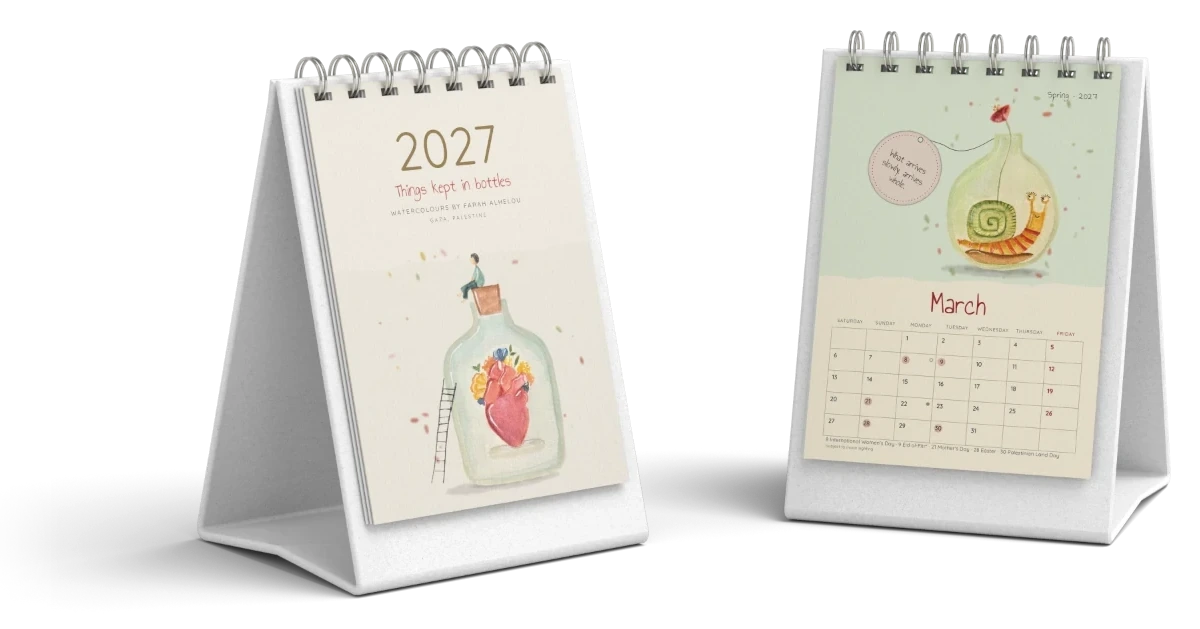
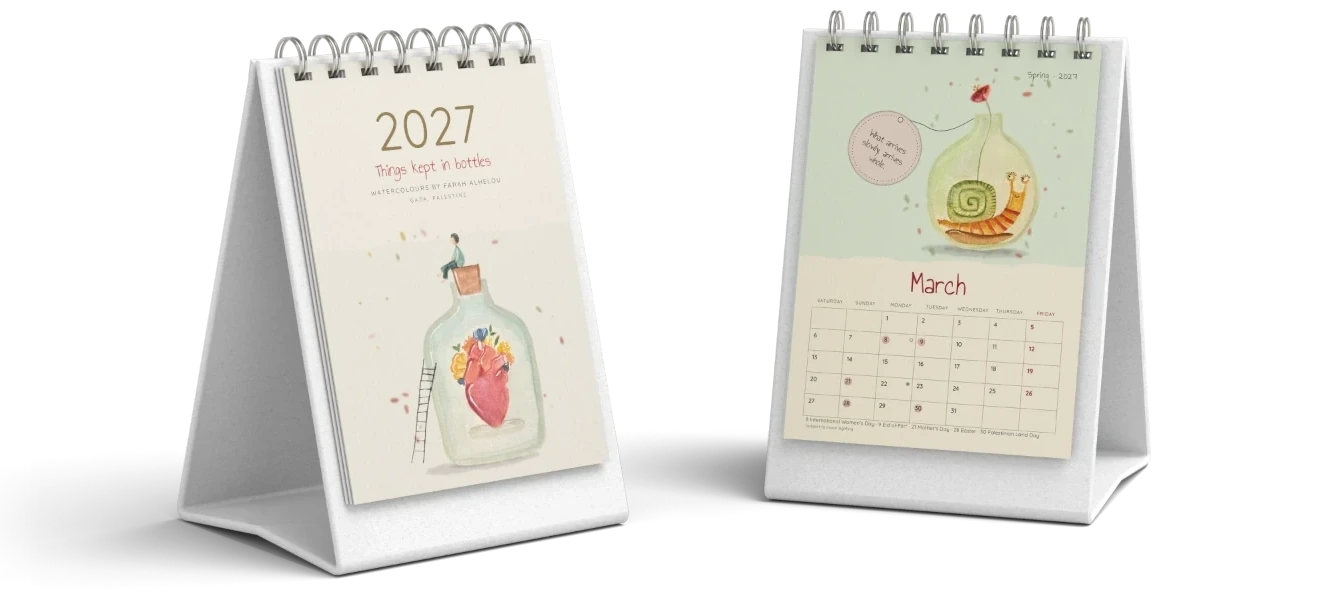
Calendar page: mockups centred on the calendars themselves (shadow spills aside), sized to the screen
Claude-Session: https://claude.ai/code/session_011WuUMkvb8t9MEEabS5wD9n

diff --git a/web/calendar.html b/web/calendar.html
@@ -19,10 +19,10 @@
 <link rel="preload" href="fonts/geist-mono-latin-500-normal.woff2" as="font" type="font/woff2" crossorigin>
 <link rel="stylesheet" href="fonts/all.css">
 <link rel="stylesheet" href="fonts/figtree.css">
-<link rel="stylesheet" href="assets/css/site.css?v=93d87108">
-<link rel="stylesheet" href="assets/css/hand.css?v=93d87108">
-<link rel="stylesheet" href="assets/css/calendar.css?v=93d87108">
-<script src="assets/js/boot.js?v=93d87108"></script>
+<link rel="stylesheet" href="assets/css/site.css?v=272b97c8">
+<link rel="stylesheet" href="assets/css/hand.css?v=272b97c8">
+<link rel="stylesheet" href="assets/css/calendar.css?v=272b97c8">
+<script src="assets/js/boot.js?v=272b97c8"></script>
 </head>
 <body>
 <a class="skip" href="#main" data-ar="انتقلوا إلى المحتوى">Skip to content</a>
@@ -64,7 +64,7 @@
 <main id="main">
 <section class="hshow cdesk" id="top" aria-labelledby="cf-h">
   <h1 class="sr" id="cf-h" data-ar="تقويم 2027: أشياء نحفظها في قوارير">The 2027 calendar: things kept in bottles</h1>
-  <img src="assets/cal-hero.webp" srcset="assets/cal-hero-m.webp 1100w, assets/cal-hero.webp 1200w" sizes="100vw" width="1200" height="629" alt="Two 2027 desk calendars standing side by side, open on the cover and on March" data-alt-ar="تقويمان مكتبيان لعام 2027 جنبًا إلى جنب، مفتوحان على الغلاف وعلى آذار" fetchpriority="high">
+  <img src="assets/cal-hero.webp" srcset="assets/cal-hero-m.webp 1100w, assets/cal-hero.webp 1326w" sizes="100vw" width="1326" height="589" alt="Two 2027 desk calendars standing side by side, open on the cover and on March" data-alt-ar="تقويمان مكتبيان لعام 2027 جنبًا إلى جنب، مفتوحان على الغلاف وعلى آذار" fetchpriority="high">
   <div class="cdesk-t">
     <p class="cdesk-l" data-ar="قارورة لكل شهر، على مكتبكم طوال العام">A bottle for every month, on your desk all year</p>
     <div class="cbuy-row">
@@ -79,7 +79,7 @@
     <div class="btl-hd"><h2 class="big" id="bt-h" data-ar="ما في القوارير">What the bottles keep</h2><p data-ar="اختاروا قارورة لتروها في التقويم.">Choose a bottle to see it in the calendar.</p></div>
     <ul class="btrow" id="btrow"></ul>
     <div class="btshow" id="btshow" aria-live="polite">
-      <div class="bts-im" id="btsim"><img class="bts-base" src="assets/cdm-base.webp" alt="" width="1104" height="969"><div class="bts-pg" id="btspg"></div><img id="btsA" alt="" width="960" height="1350"><img id="btsB" alt="" width="960" height="1350"></div>
+      <div class="bts-im" id="btsim"><img class="bts-base" src="assets/cdm-base.webp" alt="" width="1396" height="955"><div class="bts-pg" id="btspg"></div><img id="btsA" alt="" width="960" height="1350"><img id="btsB" alt="" width="960" height="1350"></div>
       <div class="bts-tx">
         <p class="bts-s" id="btss"></p>
         <h3 class="bts-n" id="btsn"></h3>
@@ -147,10 +147,10 @@
   <div class="ft-z"><small data-ar="© 2026 ماس آند غراس، غزة، فلسطين">© 2026 Mass &amp; Grass, Gaza, Palestine</small><div class="soc" id="soc"></div></div>
 </footer>
 
-<script src="assets/js/catalog.js?v=93d87108" defer></script>
-<script src="assets/js/art.js?v=93d87108" defer></script>
-<script src="assets/js/core.js?v=93d87108" defer></script>
-<script src="assets/js/mock.js?v=93d87108" defer></script>
-<script src="assets/js/calendar.js?v=93d87108" defer></script>
+<script src="assets/js/catalog.js?v=272b97c8" defer></script>
+<script src="assets/js/art.js?v=272b97c8" defer></script>
+<script src="assets/js/core.js?v=272b97c8" defer></script>
+<script src="assets/js/mock.js?v=272b97c8" defer></script>
+<script src="assets/js/calendar.js?v=272b97c8" defer></script>
 </body>
 </html>

diff --git a/web/_src/pages/calendar.html b/web/_src/pages/calendar.html
@@ -2,7 +2,7 @@
 <main id="main">
 <section class="hshow cdesk" id="top" aria-labelledby="cf-h">
   <h1 class="sr" id="cf-h" data-ar="تقويم 2027: أشياء نحفظها في قوارير">The 2027 calendar: things kept in bottles</h1>
-  <img src="assets/cal-hero.webp" srcset="assets/cal-hero-m.webp 1100w, assets/cal-hero.webp 1200w" sizes="100vw" width="1200" height="629" alt="Two 2027 desk calendars standing side by side, open on the cover and on March" data-alt-ar="تقويمان مكتبيان لعام 2027 جنبًا إلى جنب، مفتوحان على الغلاف وعلى آذار" fetchpriority="high">
+  <img src="assets/cal-hero.webp" srcset="assets/cal-hero-m.webp 1100w, assets/cal-hero.webp 1326w" sizes="100vw" width="1326" height="589" alt="Two 2027 desk calendars standing side by side, open on the cover and on March" data-alt-ar="تقويمان مكتبيان لعام 2027 جنبًا إلى جنب، مفتوحان على الغلاف وعلى آذار" fetchpriority="high">
   <div class="cdesk-t">
     <p class="cdesk-l" data-ar="قارورة لكل شهر، على مكتبكم طوال العام">A bottle for every month, on your desk all year</p>
     <div class="cbuy-row">
@@ -17,7 +17,7 @@
     <div class="btl-hd"><h2 class="big" id="bt-h" data-ar="ما في القوارير">What the bottles keep</h2><p data-ar="اختاروا قارورة لتروها في التقويم.">Choose a bottle to see it in the calendar.</p></div>
     <ul class="btrow" id="btrow"></ul>
     <div class="btshow" id="btshow" aria-live="polite">
-      <div class="bts-im" id="btsim"><img class="bts-base" src="assets/cdm-base.webp" alt="" width="1104" height="969"><div class="bts-pg" id="btspg"></div><img id="btsA" alt="" width="960" height="1350"><img id="btsB" alt="" width="960" height="1350"></div>
+      <div class="bts-im" id="btsim"><img class="bts-base" src="assets/cdm-base.webp" alt="" width="1396" height="955"><div class="bts-pg" id="btspg"></div><img id="btsA" alt="" width="960" height="1350"><img id="btsB" alt="" width="960" height="1350"></div>
       <div class="bts-tx">
         <p class="bts-s" id="btss"></p>
         <h3 class="bts-n" id="btsn"></h3>

diff --git a/web/designs.html b/web/designs.html
@@ -19,12 +19,12 @@
 <link rel="preload" href="fonts/geist-mono-latin-500-normal.woff2" as="font" type="font/woff2" crossorigin>
 <link rel="stylesheet" href="fonts/all.css">
 <link rel="stylesheet" href="fonts/figtree.css">
-<link rel="stylesheet" href="assets/css/site.css?v=93d87108">
-<link rel="stylesheet" href="assets/css/hand.css?v=93d87108">
-<link rel="stylesheet" href="assets/css/tiles.css?v=93d87108">
-<link rel="stylesheet" href="assets/css/book.css?v=93d87108">
-<link rel="stylesheet" href="assets/css/designs.css?v=93d87108">
-<script src="assets/js/boot.js?v=93d87108"></script>
+<link rel="stylesheet" href="assets/css/site.css?v=272b97c8">
+<link rel="stylesheet" href="assets/css/hand.css?v=272b97c8">
+<link rel="stylesheet" href="assets/css/tiles.css?v=272b97c8">
+<link rel="stylesheet" href="assets/css/book.css?v=272b97c8">
+<link rel="stylesheet" href="assets/css/designs.css?v=272b97c8">
+<script src="assets/js/boot.js?v=272b97c8"></script>
 </head>
 <body>
 <a class="skip" href="#main" data-ar="انتقلوا إلى المحتوى">Skip to content</a>
@@ -119,11 +119,11 @@
   <div class="ft-z"><small data-ar="© 2026 ماس آند غراس، غزة، فلسطين">© 2026 Mass &amp; Grass, Gaza, Palestine</small><div class="soc" id="soc"></div></div>
 </footer>
 
-<script src="assets/js/catalog.js?v=93d87108" defer></script>
-<script src="assets/js/art.js?v=93d87108" defer></script>
-<script src="assets/js/core.js?v=93d87108" defer></script>
-<script src="assets/js/mock.js?v=93d87108" defer></script>
-<script src="assets/js/book.js?v=93d87108" defer></script>
-<script src="assets/js/designs.js?v=93d87108" defer></script>
+<script src="assets/js/catalog.js?v=272b97c8" defer></script>
+<script src="assets/js/art.js?v=272b97c8" defer></script>
+<script src="assets/js/core.js?v=272b97c8" defer></script>
+<script src="assets/js/mock.js?v=272b97c8" defer></script>
+<script src="assets/js/book.js?v=272b97c8" defer></script>
+<script src="assets/js/designs.js?v=272b97c8" defer></script>
 </body>
 </html>

diff --git a/web/book.html b/web/book.html
@@ -19,11 +19,11 @@
 <link rel="preload" href="fonts/geist-mono-latin-500-normal.woff2" as="font" type="font/woff2" crossorigin>
 <link rel="stylesheet" href="fonts/all.css">
 <link rel="stylesheet" href="fonts/figtree.css">
-<link rel="stylesheet" href="assets/css/site.css?v=93d87108">
-<link rel="stylesheet" href="assets/css/hand.css?v=93d87108">
-<link rel="stylesheet" href="assets/css/book.css?v=93d87108">
-<link rel="stylesheet" href="assets/css/designs.css?v=93d87108">
-<script src="assets/js/boot.js?v=93d87108"></script>
+<link rel="stylesheet" href="assets/css/site.css?v=272b97c8">
+<link rel="stylesheet" href="assets/css/hand.css?v=272b97c8">
+<link rel="stylesheet" href="assets/css/book.css?v=272b97c8">
+<link rel="stylesheet" href="assets/css/designs.css?v=272b97c8">
+<script src="assets/js/boot.js?v=272b97c8"></script>
 </head>
 <body>
 <a class="skip" href="#main" data-ar="انتقلوا إلى المحتوى">Skip to content</a>
@@ -106,10 +106,10 @@
   <div class="ft-z"><small data-ar="© 2026 ماس آند غراس، غزة، فلسطين">© 2026 Mass &amp; Grass, Gaza, Palestine</small><div class="soc" id="soc"></div></div>
 </footer>
 
-<script src="assets/js/catalog.js?v=93d87108" defer></script>
-<script src="assets/js/art.js?v=93d87108" defer></script>
-<script src="assets/js/core.js?v=93d87108" defer></script>
-<script src="assets/js/mock.js?v=93d87108" defer></script>
-<script src="assets/js/book.js?v=93d87108" defer></script>
+<script src="assets/js/catalog.js?v=272b97c8" defer></script>
+<script src="assets/js/art.js?v=272b97c8" defer></script>
+<script src="assets/js/core.js?v=272b97c8" defer></script>
+<script src="assets/js/mock.js?v=272b97c8" defer></script>
+<script src="assets/js/book.js?v=272b97c8" defer></script>
 </body>
 </html>

diff --git a/web/shop.html b/web/shop.html
@@ -19,11 +19,11 @@
 <link rel="preload" href="fonts/geist-mono-latin-500-normal.woff2" as="font" type="font/woff2" crossorigin>
 <link rel="stylesheet" href="fonts/all.css">
 <link rel="stylesheet" href="fonts/figtree.css">
-<link rel="stylesheet" href="assets/css/site.css?v=93d87108">
-<link rel="stylesheet" href="assets/css/hand.css?v=93d87108">
-<link rel="stylesheet" href="assets/css/tiles.css?v=93d87108">
-<link rel="stylesheet" href="assets/css/shop.css?v=93d87108">
-<script src="assets/js/boot.js?v=93d87108"></script>
+<link rel="stylesheet" href="assets/css/site.css?v=272b97c8">
+<link rel="stylesheet" href="assets/css/hand.css?v=272b97c8">
+<link rel="stylesheet" href="assets/css/tiles.css?v=272b97c8">
+<link rel="stylesheet" href="assets/css/shop.css?v=272b97c8">
+<script src="assets/js/boot.js?v=272b97c8"></script>
 </head>
 <body>
 <a class="skip" href="#main" data-ar="انتقلوا إلى المحتوى">Skip to content</a>
@@ -90,10 +90,10 @@
   <div class="ft-z"><small data-ar="© 2026 ماس آند غراس، غزة، فلسطين">© 2026 Mass &amp; Grass, Gaza, Palestine</small><div class="soc" id="soc"></div></div>
 </footer>
 
-<script src="assets/js/catalog.js?v=93d87108" defer></script>
-<script src="assets/js/art.js?v=93d87108" defer></script>
-<script src="assets/js/core.js?v=93d87108" defer></script>
-<script src="assets/js/mock.js?v=93d87108" defer></script>
-<script src="assets/js/shop.js?v=93d87108" defer></script>
+<script src="assets/js/catalog.js?v=272b97c8" defer></script>
+<script src="assets/js/art.js?v=272b97c8" defer></script>
+<script src="assets/js/core.js?v=272b97c8" defer></script>
+<script src="assets/js/mock.js?v=272b97c8" defer></script>
+<script src="assets/js/shop.js?v=272b97c8" defer></script>
 </body>
 </html>

diff --git a/web/commission.html b/web/commission.html
@@ -19,10 +19,10 @@
 <link rel="preload" href="fonts/geist-mono-latin-500-normal.woff2" as="font" type="font/woff2" crossorigin>
 <link rel="stylesheet" href="fonts/all.css">
 <link rel="stylesheet" href="fonts/figtree.css">
-<link rel="stylesheet" href="assets/css/site.css?v=93d87108">
-<link rel="stylesheet" href="assets/css/hand.css?v=93d87108">
-<link rel="stylesheet" href="assets/css/commission.css?v=93d87108">
-<script src="assets/js/boot.js?v=93d87108"></script>
+<link rel="stylesheet" href="assets/css/site.css?v=272b97c8">
+<link rel="stylesheet" href="assets/css/hand.css?v=272b97c8">
+<link rel="stylesheet" href="assets/css/commission.css?v=272b97c8">
+<script src="assets/js/boot.js?v=272b97c8"></script>
 </head>
 <body>
 <a class="skip" href="#main" data-ar="انتقلوا إلى المحتوى">Skip to content</a>
@@ -126,10 +126,10 @@
   <div class="ft-z"><small data-ar="© 2026 ماس آند غراس، غزة، فلسطين">© 2026 Mass &amp; Grass, Gaza, Palestine</small><div class="soc" id="soc"></div></div>
 </footer>
 
-<script src="assets/js/catalog.js?v=93d87108" defer></script>
-<script src="assets/js/art.js?v=93d87108" defer></script>
-<script src="assets/js/core.js?v=93d87108" defer></script>
-<script src="assets/js/mock.js?v=93d87108" defer></script>
-<script src="assets/js/commission.js?v=93d87108" defer></script>
+<script src="assets/js/catalog.js?v=272b97c8" defer></script>
+<script src="assets/js/art.js?v=272b97c8" defer></script>
+<script src="assets/js/core.js?v=272b97c8" defer></script>
+<script src="assets/js/mock.js?v=272b97c8" defer></script>
+<script src="assets/js/commission.js?v=272b97c8" defer></script>
 </body>
 </html>

diff --git a/web/paintings.html b/web/paintings.html
@@ -19,10 +19,10 @@
 <link rel="preload" href="fonts/geist-mono-latin-500-normal.woff2" as="font" type="font/woff2" crossorigin>
 <link rel="stylesheet" href="fonts/all.css">
 <link rel="stylesheet" href="fonts/figtree.css">
-<link rel="stylesheet" href="assets/css/site.css?v=93d87108">
-<link rel="stylesheet" href="assets/css/hand.css?v=93d87108">
-<link rel="stylesheet" href="assets/css/paintings.css?v=93d87108">
-<script src="assets/js/boot.js?v=93d87108"></script>
+<link rel="stylesheet" href="assets/css/site.css?v=272b97c8">
+<link rel="stylesheet" href="assets/css/hand.css?v=272b97c8">
+<link rel="stylesheet" href="assets/css/paintings.css?v=272b97c8">
+<script src="assets/js/boot.js?v=272b97c8"></script>
 </head>
 <body>
 <a class="skip" href="#main" data-ar="انتقلوا إلى المحتوى">Skip to content</a>
@@ -111,10 +111,10 @@
   <div class="ft-z"><small data-ar="© 2026 ماس آند غراس، غزة، فلسطين">© 2026 Mass &amp; Grass, Gaza, Palestine</small><div class="soc" id="soc"></div></div>
 </footer>
 
-<script src="assets/js/catalog.js?v=93d87108" defer></script>
-<script src="assets/js/art.js?v=93d87108" defer></script>
-<script src="assets/js/core.js?v=93d87108" defer></script>
-<script src="assets/js/mock.js?v=93d87108" defer></script>
-<script src="assets/js/paintings.js?v=93d87108" defer></script>
+<script src="assets/js/catalog.js?v=272b97c8" defer></script>
+<script src="assets/js/art.js?v=272b97c8" defer></script>
+<script src="assets/js/core.js?v=272b97c8" defer></script>
+<script src="assets/js/mock.js?v=272b97c8" defer></script>
+<script src="assets/js/paintings.js?v=272b97c8" defer></script>
 </body>
 </html>

diff --git a/web/postcards.html b/web/postcards.html
@@ -19,10 +19,10 @@
 <link rel="preload" href="fonts/geist-mono-latin-500-normal.woff2" as="font" type="font/woff2" crossorigin>
 <link rel="stylesheet" href="fonts/all.css">
 <link rel="stylesheet" href="fonts/figtree.css">
-<link rel="stylesheet" href="assets/css/site.css?v=93d87108">
-<link rel="stylesheet" href="assets/css/hand.css?v=93d87108">
-<link rel="stylesheet" href="assets/css/postcards.css?v=93d87108">
-<script src="assets/js/boot.js?v=93d87108"></script>
+<link rel="stylesheet" href="assets/css/site.css?v=272b97c8">
+<link rel="stylesheet" href="assets/css/hand.css?v=272b97c8">
+<link rel="stylesheet" href="assets/css/postcards.css?v=272b97c8">
+<script src="assets/js/boot.js?v=272b97c8"></script>
 </head>
 <body>
 <a class="skip" href="#main" data-ar="انتقلوا إلى المحتوى">Skip to content</a>
@@ -162,10 +162,10 @@
   <div class="ft-z"><small data-ar="© 2026 ماس آند غراس، غزة، فلسطين">© 2026 Mass &amp; Grass, Gaza, Palestine</small><div class="soc" id="soc"></div></div>
 </footer>
 
-<script src="assets/js/catalog.js?v=93d87108" defer></script>
-<script src="assets/js/art.js?v=93d87108" defer></script>
-<script src="assets/js/core.js?v=93d87108" defer></script>
-<script src="assets/js/mock.js?v=93d87108" defer></script>
-<script src="assets/js/postcards.js?v=93d87108" defer></script>
+<script src="assets/js/catalog.js?v=272b97c8" defer></script>
+<script src="assets/js/art.js?v=272b97c8" defer></script>
+<script src="assets/js/core.js?v=272b97c8" defer></script>
+<script src="assets/js/mock.js?v=272b97c8" defer></script>
+<script src="assets/js/postcards.js?v=272b97c8" defer></script>
 </body>
 </html>

diff --git a/web/palestine.html b/web/palestine.html
@@ -19,10 +19,10 @@
 <link rel="preload" href="fonts/geist-mono-latin-500-normal.woff2" as="font" type="font/woff2" crossorigin>
 <link rel="stylesheet" href="fonts/all.css">
 <link rel="stylesheet" href="fonts/figtree.css">
-<link rel="stylesheet" href="assets/css/site.css?v=93d87108">
-<link rel="stylesheet" href="assets/css/hand.css?v=93d87108">
-<link rel="stylesheet" href="assets/css/calendar.css?v=93d87108">
-<script src="assets/js/boot.js?v=93d87108"></script>
+<link rel="stylesheet" href="assets/css/site.css?v=272b97c8">
+<link rel="stylesheet" href="assets/css/hand.css?v=272b97c8">
+<link rel="stylesheet" href="assets/css/calendar.css?v=272b97c8">
+<script src="assets/js/boot.js?v=272b97c8"></script>
 </head>
 <body>
 <a class="skip" href="#main" data-ar="انتقلوا إلى المحتوى">Skip to content</a>
@@ -128,10 +128,10 @@
   <div class="ft-z"><small data-ar="© 2026 ماس آند غراس، غزة، فلسطين">© 2026 Mass &amp; Grass, Gaza, Palestine</small><div class="soc" id="soc"></div></div>
 </footer>
 
-<script src="assets/js/catalog.js?v=93d87108" defer></script>
-<script src="assets/js/art.js?v=93d87108" defer></script>
-<script src="assets/js/core.js?v=93d87108" defer></script>
-<script src="assets/js/mock.js?v=93d87108" defer></script>
-<script src="assets/js/palestine.js?v=93d87108" defer></script>
+<script src="assets/js/catalog.js?v=272b97c8" defer></script>
+<script src="assets/js/art.js?v=272b97c8" defer></script>
+<script src="assets/js/core.js?v=272b97c8" defer></script>
+<script src="assets/js/mock.js?v=272b97c8" defer></script>
+<script src="assets/js/palestine.js?v=272b97c8" defer></script>
 </body>
 </html>

diff --git a/web/stickers.html b/web/stickers.html
@@ -19,10 +19,10 @@
 <link rel="preload" href="fonts/geist-mono-latin-500-normal.woff2" as="font" type="font/woff2" crossorigin>
 <link rel="stylesheet" href="fonts/all.css">
 <link rel="stylesheet" href="fonts/figtree.css">
-<link rel="stylesheet" href="assets/css/site.css?v=93d87108">
-<link rel="stylesheet" href="assets/css/hand.css?v=93d87108">
-<link rel="stylesheet" href="assets/css/stickers.css?v=93d87108">
-<script src="assets/js/boot.js?v=93d87108"></script>
+<link rel="stylesheet" href="assets/css/site.css?v=272b97c8">
+<link rel="stylesheet" href="assets/css/hand.css?v=272b97c8">
+<link rel="stylesheet" href="assets/css/stickers.css?v=272b97c8">
+<script src="assets/js/boot.js?v=272b97c8"></script>
 </head>
 <body>
 <a class="skip" href="#main" data-ar="انتقلوا إلى المحتوى">Skip to content</a>
@@ -115,10 +115,10 @@
   <div class="ft-z"><small data-ar="© 2026 ماس آند غراس، غزة، فلسطين">© 2026 Mass &amp; Grass, Gaza, Palestine</small><div class="soc" id="soc"></div></div>
 </footer>
 
-<script src="assets/js/catalog.js?v=93d87108" defer></script>
-<script src="assets/js/art.js?v=93d87108" defer></script>
-<script src="assets/js/core.js?v=93d87108" defer></script>
-<script src="assets/js/mock.js?v=93d87108" defer></script>
-<script src="assets/js/stickers.js?v=93d87108" defer></script>
+<script src="assets/js/catalog.js?v=272b97c8" defer></script>
+<script src="assets/js/art.js?v=272b97c8" defer></script>
+<script src="assets/js/core.js?v=272b97c8" defer></script>
+<script src="assets/js/mock.js?v=272b97c8" defer></script>
+<script src="assets/js/stickers.js?v=272b97c8" defer></script>
 </body>
 </html>

diff --git a/web/checkout.html b/web/checkout.html
@@ -20,10 +20,10 @@
 <link rel="preload" href="fonts/geist-mono-latin-500-normal.woff2" as="font" type="font/woff2" crossorigin>
 <link rel="stylesheet" href="fonts/all.css">
 <link rel="stylesheet" href="fonts/figtree.css">
-<link rel="stylesheet" href="assets/css/site.css?v=93d87108">
-<link rel="stylesheet" href="assets/css/hand.css?v=93d87108">
-<link rel="stylesheet" href="assets/css/checkout.css?v=93d87108">
-<script src="assets/js/boot.js?v=93d87108"></script>
+<link rel="stylesheet" href="assets/css/site.css?v=272b97c8">
+<link rel="stylesheet" href="assets/css/hand.css?v=272b97c8">
+<link rel="stylesheet" href="assets/css/checkout.css?v=272b97c8">
+<script src="assets/js/boot.js?v=272b97c8"></script>
 </head>
 <body>
 <a class="skip" href="#main" data-ar="انتقلوا إلى المحتوى">Skip to content</a>
@@ -89,10 +89,10 @@
   <div class="ft-z"><small data-ar="© 2026 ماس آند غراس، غزة، فلسطين">© 2026 Mass &amp; Grass, Gaza, Palestine</small><div class="soc" id="soc"></div></div>
 </footer>
 
-<script src="assets/js/catalog.js?v=93d87108" defer></script>
-<script src="assets/js/art.js?v=93d87108" defer></script>
-<script src="assets/js/core.js?v=93d87108" defer></script>
-<script src="assets/js/mock.js?v=93d87108" defer></script>
-<script src="assets/js/checkout.js?v=93d87108" defer></script>
+<script src="assets/js/catalog.js?v=272b97c8" defer></script>
+<script src="assets/js/art.js?v=272b97c8" defer></script>
+<script src="assets/js/core.js?v=272b97c8" defer></script>
+<script src="assets/js/mock.js?v=272b97c8" defer></script>
+<script src="assets/js/checkout.js?v=272b97c8" defer></script>
 </body>
 </html>

diff --git a/web/account.html b/web/account.html
@@ -20,10 +20,10 @@
 <link rel="preload" href="fonts/geist-mono-latin-500-normal.woff2" as="font" type="font/woff2" crossorigin>
 <link rel="stylesheet" href="fonts/all.css">
 <link rel="stylesheet" href="fonts/figtree.css">
-<link rel="stylesheet" href="assets/css/site.css?v=93d87108">
-<link rel="stylesheet" href="assets/css/hand.css?v=93d87108">
-<link rel="stylesheet" href="assets/css/account.css?v=93d87108">
-<script src="assets/js/boot.js?v=93d87108"></script>
+<link rel="stylesheet" href="assets/css/site.css?v=272b97c8">
+<link rel="stylesheet" href="assets/css/hand.css?v=272b97c8">
+<link rel="stylesheet" href="assets/css/account.css?v=272b97c8">
+<script src="assets/js/boot.js?v=272b97c8"></script>
 </head>
 <body>
 <a class="skip" href="#main" data-ar="انتقلوا إلى المحتوى">Skip to content</a>
@@ -94,10 +94,10 @@
   <div class="ft-z"><small data-ar="© 2026 ماس آند غراس، غزة، فلسطين">© 2026 Mass &amp; Grass, Gaza, Palestine</small><div class="soc" id="soc"></div></div>
 </footer>
 
-<script src="assets/js/catalog.js?v=93d87108" defer></script>
-<script src="assets/js/art.js?v=93d87108" defer></script>
-<script src="assets/js/core.js?v=93d87108" defer></script>
-<script src="assets/js/mock.js?v=93d87108" defer></script>
-<script src="assets/js/account.js?v=93d87108" defer></script>
+<script src="assets/js/catalog.js?v=272b97c8" defer></script>
+<script src="assets/js/art.js?v=272b97c8" defer></script>
+<script src="assets/js/core.js?v=272b97c8" defer></script>
+<script src="assets/js/mock.js?v=272b97c8" defer></script>
+<script src="assets/js/account.js?v=272b97c8" defer></script>
 </body>
 </html>
